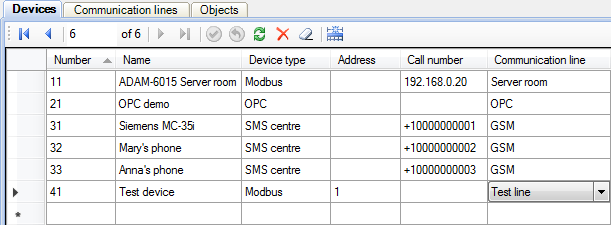
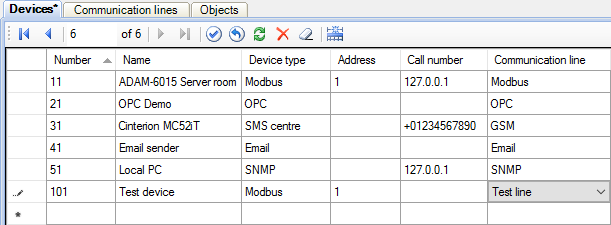
ScadaDoc: update modbus images en

diff --git a/ScadaDoc/ScadaDoc/content/en/use-cases/modbus-protocol.html b/ScadaDoc/ScadaDoc/content/en/use-cases/modbus-protocol.html
@@ -32,7 +32,7 @@
 
     <p>Editing the configuration database is performed using the Administrator application.</p>
 
-    <p>Run Administrator. Open the <em>Objects</em> table and add a new line for the object 2 "Test object" (see Figure 1). Then open the <em>Communication lines</em> table and add the line 4 "Test line" (see Figure 2). After that open  the <em>Devices</em> table and add the device 41 "Test device" (see Figure 3).</p>
+    <p>Run Administrator. Open the <em>Objects</em> table and add a new line for the object 2 "Test object" (see Figure 1). Then open the <em>Communication lines</em> table and add the line 11 "Test line" (see Figure 2). After that open  the <em>Devices</em> table and add the device 101 "Test device" (see Figure 3).</p>
 
     <p>Fill the following fields for the device (see Figure 3):</p>
 
@@ -144,7 +144,7 @@
 
     <p>To save Communicator settings click the <img src="../../common-images/apply.png" /> button. Now it is recommended to start the Communicator service with the <img src="../../common-images/start.png" /> button and check communication with the device.</p>
 
-    <p>Click Device 41 "Test device" tree node to check the device state and the availability of data (see Figure 10). The data is not available immediately after start, retrieved values are shown when the first polling complete.</p>
+    <p>Click Device 101 "Test device" tree node to check the device state and the availability of data (see Figure 10). The data is not available immediately after start, retrieved values are shown when the first polling complete.</p>
 
     <p class="sd-article-image">
         <img src="modbus-protocol-files/modbus_data_en.png" alt="Device data"><br>
